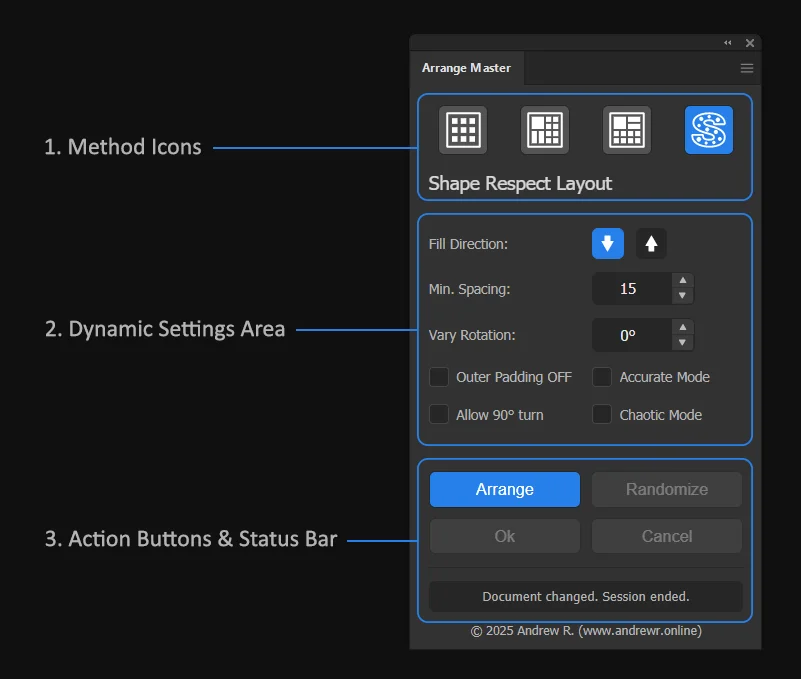
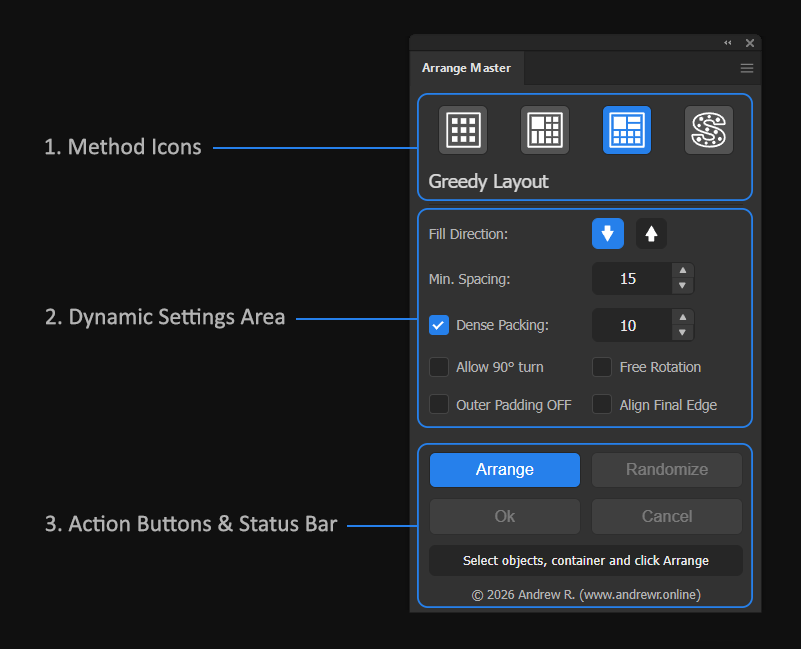
Release v1.1.2

diff --git a/arrangemaster/documentation.html b/arrangemaster/documentation.html
@@ -78,8 +78,8 @@
       ]
     }
     </script>
-</head>
-<body>
+    </head>
+    <body>
 
     <!-- =======================
     NAVIGATION
@@ -109,14 +109,10 @@
             </div>
             <div class="container">
                 <h1>Arrange Master Documentation</h1>
+                <p class="doc-version-note">Current Version: 1.2.0</p>
                 <ol>
-                    <li><a href="#installation">Installation</a>
-                        <ul>
-                            <li><a href="#install-windows">Windows Installer</a></li>
-                            <li><a href="#extension-managers">Extension Managers</a></li>
-                            <li><a href="#find-panel">Finding the Panel in Illustrator</a></li>
-                        </ul>
-                    </li>
+                    <li><a href="#installation">Installation</a></li>
+                    <li><a href="#uninstallation">Upgrading & Complete Uninstallation</a></li>
                     <li><a href="#introduction">Introduction</a></li>
                     <li><a href="#the-main-interface">The Main Interface</a></li>
                     <li><a href="#preparing-for-arrangement">Preparing Items for Arrangement</a></li>
@@ -125,20 +121,21 @@
                         <ul>
                             <li><a href="#grid-layout">Grid Layout</a></li>
                             <li><a href="#knolling-layout">Knolling Layout</a></li>
-                            <li><a href="#greedy-layout">Greedy Layout (and Dense Packing)</a></li>
+                            <li><a href="#greedy-layout">Greedy Layout</a></li>
+                            <li><a href="#dense-packing">Dense Packing (True-Shape Nesting)</a></li>
                             <li><a href="#shape-respect-layout">Shape Respect Layout</a></li>
                         </ul>
                     </li>
-                    <li><a href="#overflow-placement">Overflow Placement: Handling Unplaced Items</a></li>
+                    <li><a href="#overflow-placement">Overflow Placement</a></li>
                     <li><a href="#common-features">Common Features & Best Practices</a></li>
                     <li><a href="#changelog">Changelog</a>
                         <ul>
+                            <li><a href="#version-1-2-0">Version 1.2.0</a></li>
                             <li><a href="#version-1-1-2">Version 1.1.2</a></li>
                             <li><a href="#version-1-1-1">Version 1.1.1</a></li>
                             <li><a href="#version-1-0-1">Version 1.0.1</a></li>
                             <li><a href="#version-1-0-0">Version 1.0.0</a></li>
                         </ul>
-                    </li>
                 </ol>
 				
 				<h3 id="installation">1. Installation</h3>
@@ -149,14 +146,11 @@
                     <li>Unzip the archive you downloaded after purchase.</li>
                     <li>Open the folder named <strong><code>Windows Install</code></strong>.</li>
                     <li>Run the <strong><code>ArrangeMaster-v1.x.x-Setup.exe</code></strong> file.</li>
-                    <li>Follow the on-screen instructions. The installation is fully automatic.</li>
+                    <li>Follow the on-screen instructions. The installation is fully automatic and performs necessary registry configurations for the user.</li>
                 </ol>
 
                 <h4 id="extension-managers">ZXP Installers (macOS & Advanced Windows)</h4>
-                <p>If you are a macOS user or an advanced Windows user who prefers to use a ZXP package, you will need a dedicated extension manager application. We strongly recommend using one of the two reliable options below.</p>
-
-                <h4 id="install-options">Installation Options</h4>
-                <p>To install the <code>ArrangeMaster.zxp</code> file, you need a dedicated extension manager application. We strongly recommend using one of the two reliable options below.</p>
+                <p>To install the <code>ArrangeMaster.zxp</code> file manually, you need a dedicated extension manager application.</p>
                 
                 <p><strong>Option 1: Anastasiy’s Extension Manager (Recommended)</strong></p>
                 <p>This is the most popular and reliable tool for managing Adobe extensions.</p>
@@ -196,43 +190,87 @@
 						<img src="assets/screenshots/documentation_screenshot_002.webp" alt="A screenshot of Illustrator's main menu">
 					</a>
 				</div>
-				
-                <h3 id="introduction">2. Introduction</h3>
+
+                <h3 id="uninstallation">2. Upgrading & Complete Uninstallation</h3>
+                <p>When installing a new major version of Arrange Master, it is strictly recommended to completely remove the old version first to prevent file conflicts within the Adobe CEP engine.</p>
+
+                <h4>For Windows Installer Users:</h4>
+                <ol>
+                    <li>Open Windows Settings > Apps > Installed apps.</li>
+                    <li>Find "Arrange Master", click the menu, and select <strong>Uninstall</strong>.</li>
+                    <li>Alternatively, navigate to your Start Menu, find the Arrange Master folder, and run the uninstaller.</li>
+                </ol>
+
+                <h4>For ZXP Manager Users (macOS & Windows):</h4>
+                <p>Open Anastasiy’s Extension Manager or aeplugins Manager App, select Arrange Master from the list of Illustrator extensions, and click the <strong>Remove</strong> button. ZXPInstaller does not have an automatic uninstall feature, so you will have to manually check all possible CEP extension locations.</p>
+
+                <h4>Manual Deletion (If all else fails):</h4>
+                <p>If the plugin panel persists or the installer throws an error, you must manually delete the extension folder. Close Adobe Illustrator and delete the <code>com.andrewrybalko.arrangemaster</code> folder located in the following directories:</p>
+                <ul>
+                    <li><strong>Windows:</strong><br>
+                        <code>C:\Users\YOUR_USERNAME\AppData\Roaming\Adobe\CEP\extensions\</code><br>
+                        <code>C:\Program Files (x86)\Common Files\Adobe\CEP\extensions\</code>
+                    </li>
+                    <li><strong>macOS:</strong><br>
+                        <code>~/Library/Application Support/Adobe/CEP/extensions/</code><br>
+                        <code>/Library/Application Support/Adobe/CEP/extensions/</code>
+                    </li>
+                </ul>
+
+                <h3 id="introduction">3. Introduction</h3>
                 <p>Welcome to Arrange Master! This guide will walk you through all the features of the plugin to help you transform chaotic object sets into perfectly organized compositions.</p>
                 
-                <h4>How it Works:</h4>
-                <p>Arrange Master works by identifying two types of objects in your selection:</p>
+                <h4>Core Principles:</h4>
                 <ul>
                     <li><strong>The Container:</strong> The largest object in your selection is automatically treated as the container.</li>
                     <li><strong>The Items:</strong> All other selected objects are treated as items to be arranged inside the container.</li>
+                    <li><strong>Non-Destructive Environment:</strong> Arrange Master operates entirely within a strict <strong>Session-Based Workflow</strong>. Original objects are hidden and preserved, while algorithmic operations are performed only on generated duplicates. (See <a href="#the-arrangement-workflow">Section 6</a> for operational details).</li>
                 </ul>
-                <p>The plugin then uses one of four powerful algorithms to place the items within the container's boundaries.</p>
 
-                <h3 id="the-main-interface">3. The Main Interface</h3>
-                <p>The Arrange Master panel is clean and intuitive, designed to give you powerful control without clutter.</p>
+                <h3 id="the-main-interface">4. The Main Interface</h3>
+                <p>The interface is modular, exposing settings only relevant to the currently selected layout method.</p>
 				<div class="screenshot-wrapper">
 					<a href="assets/screenshots/documentation_screenshot_003.webp" class="screenshot-preview">
 						<img src="assets/screenshots/documentation_screenshot_003.webp" alt="Arrange Master panel">
 					</a>
 				</div>
-				
                 <ol>
                     <li><strong>Method Icons:</strong> At the top of the panel, you will find four icons. Each icon represents a different arrangement algorithm. Clicking an icon selects that method and reveals its specific settings below.</li>
                     <li><strong>Dynamic Settings Area:</strong> This central part of the panel changes based on the selected method, showing only the relevant controls for your current task.</li>
                     <li><strong>Action Buttons & Status Bar:</strong> The bottom section contains the main control buttons (<code>Arrange</code>, <code>Randomize</code>, <code>Ok</code>, <code>Cancel</code>) and a status bar that provides feedback on the current operation.</li>
+                    <li><strong>Status Bar:</strong> Provides real-time system feedback and a progress bar during geometric calculations.</li>
                 </ol>
 				
-                <h3 id="preparing-for-arrangement">4. Preparing Items for Arrangement</h3>
-                <p>For most layout methods, arrangement is based on the rectangular <strong>bounding box</strong> of each item. For items with a lot of empty space within their bounds (like a table, a chair, or an L-shaped lamp post), this can lead to unexpectedly large gaps.</p>
-				<div class="screenshot-wrapper">
+                <h3 id="preparing-for-arrangement">5. Preparing Items for Arrangement</h3>
+                <p>The efficiency of the layout depends heavily on how your artwork is structured before initialization.</p>
+                
+                <div class="screenshot-wrapper">
 					<a href="assets/screenshots/documentation_screenshot_004.webp" class="screenshot-preview">
 						<img src="assets/screenshots/documentation_screenshot_004.webp" alt="Preparing Items for Arrangement">
 					</a>
 				</div>
-                <p><strong>Pro Tip:</strong> To achieve a tighter fit with such items, you can either pre-arrange them into more compact, rectangular groups before running Arrange Master, or use the powerful <strong>Dense Packing</strong> mode in the Greedy Layout, which analyzes the true shape of objects.</p>
 
-                <h3 id="the-arrangement-workflow">5. The Arrangement Workflow: Understanding Sessions</h3>
-                <p>Arrange Master uses a <strong>session-based workflow</strong> to give you maximum flexibility and control. A session is a safe, temporary workspace that protects your original objects.</p>
+                <h4>Supported Object Types</h4>
+                <p>Arrange Master processes standard Illustrator objects including <strong>Paths, Compound Paths, Groups, Text Objects, Symbols, and Raster Images (Embedded or Linked)</strong>. The plugin uses robust fallback mechanisms to correctly identify bounds even for complex Linked objects or items with missing visible bounds.</p>
+                <ul>
+                    <li><strong>⚠ Problematic Geometry:</strong> Avoid using complex groups of "Gradient Meshes" or objects with "Opacity Masks" as containers or primary nesting items, as Illustrator API often misreports their true coordinates. Expand these elements to basic paths if precise nesting is required.</li>
+                </ul>
+                
+                <h4>Preparation for Standard Methods</h4>
+                <p>Standard algorithms calculate placement based exclusively on the <strong>Bounding Boxes</strong> (rectangular perimeter) of the items. </p>
+                <ul>
+                    <li><strong>Gaps:</strong> If an object has a complex shape with internal empty space (e.g., an "L" shaped desk), the standard algorithm treats that empty space as solid matter.</li>
+                    <li><strong>Optimization:</strong> To achieve higher density in standard modes, manually group sub-elements into solid rectangular blocks before arranging them.</li>
+                </ul>
+
+                <h4>Preparation for Dense Packing (True-Shape Nesting)</h4>
+                <p>Dense Packing bypasses bounding boxes and analyzes the <strong>True Vector Geometry</strong> of the object. </p>
+                <ul>
+                    <li><strong>Vector Only:</strong> Dense Packing strictly requires mathematical path data. <strong>Raster images are NOT supported</strong> in this mode. If you attempt to use Raster items with Dense Packing enabled, the plugin will throw an error or skip them.</li>
+                </ul>
+
+                <h3 id="the-arrangement-workflow">6. The Arrangement Workflow: Understanding Sessions</h3>
+                <p>Arrange Master uses a <strong>Session-Based Workflow</strong> to give you maximum flexibility and control. A session is a safe, temporary workspace that protects your original objects.</p>
                 
                 <h4>Starting a Session:</h4>
                 <p>A session begins the very first time you click the <code>Arrange</code> button after making a selection. At this moment, Arrange Master does two things:</p>
@@ -254,15 +292,16 @@
                     <li>Clicking <code>Randomize</code> will re-apply the layout using the same settings but with a different random order for the largest items, giving you a new variation instantly.</li>
                 </ul>
 
-                <h4>Ending a Session (Very Important!):</h4>
+                <h4>⚠ Ending a Session (Very Important!):</h4>
                 <p>A session must be properly ended to finalize your work or revert your changes.</p>
                 <ul>
                     <li><code>Ok</code> <strong>(Finalize):</strong> Click this button when you are satisfied with the arrangement. This will <strong>delete your original hidden items</strong> and make the arranged copies permanent. This is the correct way to complete your work.</li>
                     <li><code>Cancel</code> <strong>(Revert):</strong> Click this button to discard all changes. This will <strong>delete the temporary arranged copies</strong> and restore your original, untouched items to their initial positions.</li>
                 </ul>
-                <p><strong>Why is this important?</strong> Until you click <code>Ok</code> or <code>Cancel</code>, your original items remain hidden and the arranged items are temporary. Properly ending the session ensures your document remains clean and contains only the objects you intend to keep. A session will also automatically end if you switch documents.</p>
+                <p><strong>Why is this important?</strong> Until you click <code>Ok</code> or <code>Cancel</code>, your original items remain hidden and the arranged items are temporary. Properly ending the session ensures your document remains clean and contains only the objects you intend to keep.</p>
+                <p><em>Note: Deselecting objects or switching to a different Illustrator document will force the plugin to auto-terminate the session to prevent data corruption.</em></p>
 
-                <h3 id="layout-methods">6. Layout Methods</h3>
+                <h3 id="layout-methods">7. Layout Methods</h3>
 
                 <h4 id="grid-layout">Grid Layout</h4>
                 <p>This method arranges items in a structured, uniform grid. It is perfect for organizing icon sets, creating charts, or generating complex patterns.</p>
@@ -305,16 +344,18 @@
                 <ul>
                     <li><strong>Fill Direction:</strong> Sets the primary direction of the packing flow (<code>Left-to-Right</code> or <code>Right-to-Left</code>).</li>
                     <li><strong>Min. Spacing:</strong> The minimum distance guaranteed between any two items.</li>
+                    <li><strong>Fit to Container:</strong> An intelligent auto-resizing feature. It mathematically calculates the total area of your items and proportionally scales them up or down so they perfectly fill the container's usable space.</li>
+                    <li><strong>Efficiency Factor:</strong> <em>(Active only when "Fit to Container" is ON)</em>. A stepper from 0.75 to 1.00 that determines how tight the scaling calculation should be. Lower values leave more breathing room, while higher values scale items larger for maximum density.</li>
                     <li><strong>Outer Padding OFF:</strong> By default, a padding equal to the "Min. Spacing" is applied between items and the container's edge. Check this box to disable it, allowing items to touch the container's border.</li>
-                    <li><strong>Allow 90° turn:</strong> Allows the algorithm to rotate items by 90 degrees if it results in a better fit.</li>
+                    <li><strong>Allow 90° turn:</strong> Allows the algorithm to rotate items by 90° or 270° if it results in a better fit.</li>
                 </ul>
 
                 <h4 id="greedy-layout">Greedy Layout (and Dense Packing)</h4>
                 <p>This is a powerful and versatile packing method. In its standard form, it uses a high-density candidate grid for fast and effective layouts based on bounding boxes. When <strong>Dense Packing</strong> is enabled, it transforms into an advanced true-shape nesting engine.</p>
-                
+ 
                 <div class="screenshot-wrapper">
-                    <a href="assets/screenshots/documentation_screenshot_012.webp" class="screenshot-preview">
-                        <img src="assets/screenshots/documentation_screenshot_012.webp" alt="Dense Packing Mode">
+                    <a href="assets/screenshots/documentation_screenshot_013.webp" class="screenshot-preview">
+                        <img src="assets/screenshots/documentation_screenshot_013.webp" alt="Greedy layout vs a Dense Packing">
                     </a>
                 </div>
 				
@@ -323,26 +364,39 @@
                     <li><strong>Fill Direction:</strong> Sets the packing direction (<code>Top-Down</code> or <code>Bottom-Up</code>).</li>
                     <li><strong>Min. Spacing:</strong> The minimum distance between any two items.</li>
                     <li><strong>Outer Padding OFF:</strong> Disables the padding between items and the container's edge.</li>
-                    <li><strong>Allow 90° turn:</strong> Allows items to be rotated by 90 degrees to find a better fit.</li>
+                    <li><strong>Allow 90° turn:</strong> Allows items to be rotated orthogonally (90° or 0°, 90°, 180°, 270° in Dense Packing) to find a better fit.</li>
                 </ul>
 
                 <p><strong>Dense Packing (True-Shape Nesting):</strong></p>
-                <p>When the <strong>Dense Packing</strong> checkbox is enabled, Arrange Master switches to a powerful "true-shape" nesting engine. This mode analyzes the actual shape of your vector objects - including gaps between them and holes within them - and places items with maximum density. It is the most advanced packing method in the plugin, ideal for creating organic, collage-like compositions.</p>
+                <p>When the <strong>Dense Packing</strong> checkbox is enabled, Arrange Master switches to a true-shape nesting engine. This mode analyzes the actual shape of your vector objects - including gaps between and holes within them - and places items with maximum density. It uses a Two-Pass architecture: first placing large objects to form the landscape, then filling the remaining cavities with smaller details.</p>
                 
                 <div class="screenshot-wrapper">
-                    <a href="assets/screenshots/documentation_screenshot_013.webp" class="screenshot-preview">
-                        <img src="assets/screenshots/documentation_screenshot_013.webp" alt="Greedy layout vs a Dense Packing">
+                    <a href="assets/screenshots/documentation_screenshot_016.webp" class="screenshot-preview">
+                        <img src="assets/screenshots/documentation_screenshot_016.webp" alt="Dense Packing Mode">
                     </a>
                 </div>
 
-                <p><strong>Note:</strong> This mode is computationally intensive and works with vector objects only. For stability, the algorithm includes safety limits; if a layout is too complex, it will throw an error asking you to either increase the 'Analysis Precision' value or select fewer items.</p>
+                <div class="technical-disclaimer">
+                    <h4>⚠ Important Technical Context: Performance vs. Price</h4>
+                    <p>Industrial CNC nesting software often costs upwards of $1,000 and utilizes compiled multi-threaded C++ engines. Arrange Master operates within the strict conditions of Adobe's ExtendScript environment, which is single-threaded and computationally constrained.</p>
+                    <p>While our RLE Math Engine is highly optimized, processing 100+ complex vector shapes with 'Free Rotation' enabled may take from seconds to several minutes and briefly freeze the Illustrator interface. <strong>At just $39 - roughly the cost of a single meter of premium vinyl wrap</strong> - Arrange Master pushes the absolute limits of the CEP architecture, delivering an exceptionally capable true-shape nesting alternative that quickly pays for itself in saved material and time.</p>
+                </div>
+
+                <div class="screenshot-wrapper">
+                    <a href="assets/screenshots/documentation_screenshot_012.webp" class="screenshot-preview">
+                        <img src="assets/screenshots/documentation_screenshot_012.webp" alt="Dense Packing Mode">
+                    </a>
+                </div>
+
+                <p><strong>Note:</strong> This mode is computationally intensive and works with vector objects only.</p>
                 <ul>
-                    <li><strong>Analysis Precision:</strong> This setting controls the quality-vs-performance trade-off.
+                    <li><strong>Analysis Precision:</strong> This setting controls the grid resolution of the scanning engine.
                         <ul>
-                            <li><strong>Lower values (e.g., 1-4)</strong> provide higher accuracy and a tighter fit but can be significantly slower.</li>
-                            <li><strong>Higher values (e.g., 5-10+)</strong> provide faster performance but may result in a less dense layout.</li>
+                            <li><strong>Value of 1 to 3:</strong> provide a highly detailed scan, resulting in perfect contour hugging and tighter fits, but process slower.</li>
+                            <li><strong>Value of 4 to 10+:</strong> provide much faster performance but analyze the shapes in coarser "blocks".</li>
                         </ul>
                     </li>
+                    <li><strong>Free Rotation:</strong> <em>(Active only when "Allow 90° turn" is OFF)</em>. Unlocks arbitrary 360° rotation in 15-degree steps. The engine will evaluate 24 different angles for every object to achieve maximum nesting density. It features a "Rational Fallback" logic: it prioritizes straight, orthogonal placement and only tilts an object if it mathematically saves significant space.</li>
                     <li><strong>Align Final Edge:</strong> An optional post-processing step that cleans up the layout by aligning the final "ragged" edge of items for a tidier result.</li>
                 </ul>
 
@@ -371,7 +425,7 @@
 				</div>
                 <p><em>If neither <code>Accurate Mode</code> nor <code>Chaotic Mode</code> is checked, the plugin uses its default "Fast" mode, which provides a balance of speed and quality.</em></p>
 
-                <h3 id="overflow-placement">7. Overflow Placement: Handling Unplaced Items</h3>
+                <h3 id="overflow-placement">8. Overflow Placement: Handling Unplaced Items</h3>
                 <p>Arrange Master never loses your work. If an item cannot fit inside the container (either because there is no space, or it exceeds the cell size in Grid Layout), it is considered an "overflow" item.</p>
 				<div class="screenshot-wrapper">
 					<a href="assets/screenshots/documentation_screenshot_011.webp" class="screenshot-preview">
@@ -392,12 +446,13 @@
                     <li><strong>Decrease the "Min. Spacing"</strong> value in the panel settings.</li>
                     <li>For Grid Layout, increase the number of <strong>Rows/Columns</strong> or enable <strong>"Size Limit OFF"</strong>.</li>
                     <li>For Greedy Layout, try enabling <strong>Dense Packing</strong> for a more efficient fit.</li>
+                    <li>For Knolling Layout, turn on <strong>Fit to Container</strong>.</li>
                 </ul>
                 <p>Then, simply click <code>Arrange</code> again to re-run the layout.</p>
 
-                <h3 id="common-features">8. Common Features &amp; Best Practices</h3>
+                <h3 id="common-features">9. Common Features &amp; Best Practices</h3>
                 <ul>
-                  <li><strong>Automatic Container Detection:</strong> You don't need to tell Arrange Master which object is the container. It automatically detects the largest object in your selection.</li>
+                    <li><strong>Automatic Container Detection:</strong> You don't need to tell Arrange Master which object is the container. It automatically detects the largest object in your selection.</li>
                     <li><strong>Automatic Z-Order:</strong> The container is always sent to the back, ensuring all arranged items appear on top of it.</li>
                     <li><strong>Freedom during a Session:</strong> While a session is active, you are free to interact with your document. You can:
                         <ul>
@@ -406,9 +461,33 @@
                             <li><strong>Manually resize or recolor the container object.</strong> After making changes, just click <code>Arrange</code> again to see how the layout adapts.</li>
                         </ul>
                     </li>
+                    <li><strong>Smart Caching for Dense Packing:</strong> When using Dense Packing, the plugin utilizes a high-performance buffer that stores a temporary matrix of your objects in memory. This means that after the initial <code>Arrange</code> pass, subsequent clicks on <code>Arrange</code> or <code>Randomize</code> will be significantly faster. Note: This matrix cache automatically resets if you change the <strong>Analysis Precision</strong> parameter or switch to a different layout method.</li>
+                    
+                <div class="screenshot-wrapper">
+                    <a href="assets/screenshots/documentation_screenshot_008.webp" class="screenshot-preview">
+                        <img src="assets/screenshots/documentation_screenshot_008.webp" alt="Dense Packing Mode">
+                    </a>
+                </div>
+
+                    <li><strong>Iterative Container Tuning:</strong> You can treat the container as a live bounding box. Feel free to shrink or expand your container object from the bottom or right edges to refine your composition's density after the next click on the Arrange button. If you make the container tighter, the plugin will intelligently push objects "out" into the Overflow area. Simply expand the container slightly to the right or bottom to reclaim those items back into the layout.</li>
                 </ul>
 
-                <h3 id="changelog">9. Changelog</h3>
+                <h3 id="changelog">10. Changelog</h3>
+
+                <h4 id="version-1-2-0">Version 1.2.0 (March 1, 2026)</h4>
+                <p>A massive update transforming the plugin into an industrial-grade nesting engine, featuring entirely new mathematics, real-time UI feedback, and intelligent scaling.</p>
+                <ul>
+                    <li><strong>New Feature: Visual Progress Bar.</strong> The Status Bar now features a smooth, animated background progress filler. Long operations like Dense Packing now provide clear visual feedback that the engine is working.</li>
+                    <li><strong>New Feature: Intelligent Auto-Resizing ("Fit to Container").</strong> Knolling Layout now includes a powerful math engine that solves a quadratic equation to perfectly scale your items up or down to fill 100% of the container's usable area, automatically accounting for Min. Spacing. Includes a dynamic "Efficiency Factor" stepper (0.75 - 1.00) for tight control over the scaling aggressiveness.</li>
+                    <li><strong>New Feature: Free Rotation (360°).</strong> Dense Packing now supports true arbitrary rotation. The algorithm evaluates 24 different angles (15° steps) for every single item to achieve maximum density. It uses "Rational Fallback" logic: items stay orthogonally straight by default, and only tilt if it mathematically saves significant space.</li>
+                    <li><strong>Architecture Upgrade: True-Shape Engine v2.</strong> The Dense Packing algorithm has been entirely rebuilt:
+                        <ul>
+                            <li><strong>Math Engine Rasterization:</strong> Completely bypasses Illustrator's infamous bounding box inflation bug. Objects are now rotated mathematically in memory, ensuring perfect contour hugging without false collisions.</li>
+                            <li><strong>Two-Pass Placement:</strong> The system now acts like an intelligent mason: Pass 1 places large objects to build the structural landscape, and Pass 2 executes a fine-search to pour tiny objects into the remaining microscopic gaps.</li>
+                        </ul>
+                    </li>
+                    <li><strong>Major Bug Fix:</strong> Fixed a bug with memory leaks and uneven filling of cells when using Offset Odd/Even Rows in Grid Layout.</li>
+                </ul>
 
                 <h4 id="version-1-1-2">Version 1.1.2 (November 22, 2025)</h4>
                 <p>This update focuses on maximizing packing density, refining algorithm precision, and unifying rotation logic for Dense Packing.</p>
